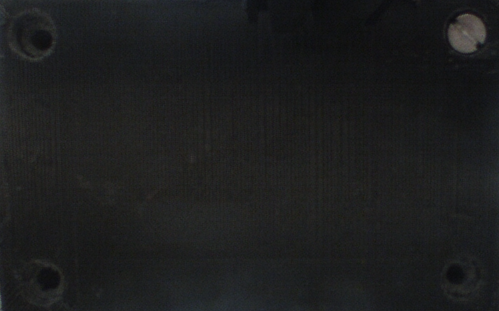
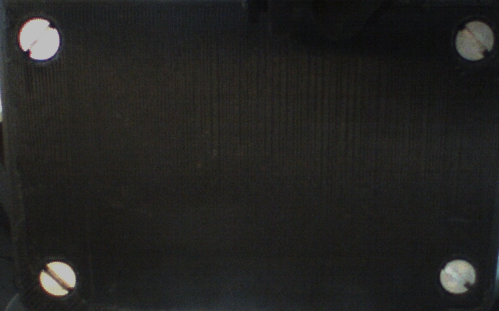
Screw detection + Baxter screen output

diff --git a/src/inspection_task/src/baxter_screws_prediction.py b/src/inspection_task/src/baxter_screws_prediction.py
@@ -6,12 +6,13 @@ import cv2
 import numpy as np
 import os
 from std_msgs.msg import Bool
-from geometry_msgs.msg import Point
+# from geometry_msgs.msg import Point
 from sensor_msgs.msg import Image
 from cv_bridge import CvBridge, CvBridgeError
-from sklearn.externals import joblib
-from scipy.cluster.vq import vq, kmeans, whiten
-from object_recognition.msg import ObjectInfo
+import baxter_interface
+# from sklearn.externals import joblib
+# from scipy.cluster.vq import vq, kmeans, whiten
+# from object_recognition.msg import ObjectInfo
 
 class webcam_image:
     def __init__(self):
@@ -37,6 +38,8 @@ class webcam_image:
         if not os.path.exists(self.directory):
             os.mkdir(self.directory)
 
+        self.analysis = False
+
 
     def check_moving(self,data):
         self.is_moving = data.data
@@ -54,16 +57,20 @@ class webcam_image:
             crop_img = frame[57:368, 85:584] # Use numpy slicing to crop the input image (no more background issues)
             cv2.imshow('crop img (video)',crop_img) 
 
+            
             if cv2.waitKey(1) & 0xFF == ord('c'):
+            # if self.analysis == False:
                 image_path = self.directory + '/' + str("capture_inspection") + '.png'
+                rospy.sleep(1)
                 cv2.imwrite(image_path, crop_img)
                 print "Capturing image",image_path
 
 
                 self.screwDetection(crop_img)
-                
 
+                self.analysis = True
 
+                # Publish baxter message and quit (or running again if missing screws)
 
             # self.screwDetection(crop_img)
             
@@ -72,39 +79,22 @@ class webcam_image:
             # self.screwDetection(frame)
             cv2.waitKey(3)
 
-            # Split frame into left and right halves
-            # left_frame = frame[0:frame.shape[0], 0:frame.shape[1]/3]
-            # middle_frame = frame[0:frame.shape[0], frame.shape[1]/3:2*frame.shape[1]/3]
-            # right_frame = frame[0:frame.shape[0], 2*frame.shape[1]/3:frame.shape[1]]
-
-            # Create list of left and right images
-            # frames = [left_frame, middle_frame, right_frame]
 
     def screwDetection(self, frame):
 
-            # for i,f in enumerate(frames):
-            kps, des = sift.detectAndCompute(frame, None)
-            # frames[i] = cv2.drawKeypoints(f, kps, None, flags=cv2.DRAW_MATCHES_FLAGS_DRAW_RICH_KEYPOINTS) # draw SIFT points
-            cv2.drawKeypoints(frame, kps, None, flags=cv2.DRAW_MATCHES_FLAGS_DRAW_RICH_KEYPOINTS) # draw SIFT points
-            
-
-            # Convert current index to one_hot list representation for color assignment later
-            # one_hot = [0,0,0]
-            # one_hot[i] = 1
-
-            # Basic threshold example
+            # Convert into Gray frame
             gray = cv2.cvtColor(frame, cv2.COLOR_RGBA2GRAY)
 
             # mask = cv2.inRange(gray, 106, 255)
 
-            # CHANGE THESE VALUES TO CALIBRATE BOUNDING BOXES
-            th, dst = cv2.threshold(gray, 60, 255, cv2.THRESH_BINARY)
+            # Thresholding image
+            # th, dst = cv2.threshold(gray, 60, 255, cv2.THRESH_BINARY)
             # dst = cv2.adaptiveThreshold(gray, 255, cv2.ADAPTIVE_THRESH_MEAN_C, cv2.THRESH_BINARY_INV, 19, 12)
 
             # new_img = cv2.bitwise_not(dst, mask)
-            cv2.imshow('frame',frame)
+            # cv2.imshow('frame',frame)
             # cv2.imshow('mask',mask)
-            cv2.imshow('res',dst)
+            # cv2.imshow('res',dst)
 
             # crop_img_gray = dst[57:368, 85:584] # Use numpy slicing to crop the input image (no more background issues)
             # crop_img = frame[57:368, 85:584] # Use numpy slicing to crop the input image (no more background issues)
@@ -112,15 +102,17 @@ class webcam_image:
             # cv2.imshow('crop img',crop_img_gray) 
 
             # Find contours on binary image (cropped)
-            img_contours, contours, hierarchy = cv2.findContours(dst,cv2.RETR_TREE,cv2.CHAIN_APPROX_SIMPLE)
+            # img_contours, contours, hierarchy = cv2.findContours(dst,cv2.RETR_TREE,cv2.CHAIN_APPROX_SIMPLE)
+            # cv2.imshow('img contours',img_contours)
 
-            contour_area=0
-            areamax=0
-            cxmax=0
-            cymax=0  
-            cntmax= None
+
 
             # Test Contour detection (output OK, but not counting properly...)
+            # contour_area=0
+            # areamax=0
+            # cxmax=0
+            # cymax=0  
+            # cntmax= None
             # if len(contours) > 0:
             #     i = 0
             #     while contours:
@@ -155,9 +147,11 @@ class webcam_image:
             # detectionGray = cv2.cvtColor(frame, cv2.COLOR_RGBA2GRAY)
             # cv2.imshow('detectionGray (count detected screws)', gray)
 
+
             # Test Hough Circles Detection (this is working, check robustness)
             gray = cv2.medianBlur(gray, 5)
-            cv2.imshow('gray after blur', gray)
+            # Output debug
+            # cv2.imshow('gray after blur', gray)
             nbScrews = cv2.HoughCircles(gray,cv2.HOUGH_GRADIENT,1,20,param1=100,param2=15,minRadius=18,maxRadius=23)
             if nbScrews is not None:
                 nbScrews = np.uint16(np.around(nbScrews))
@@ -167,14 +161,36 @@ class webcam_image:
                     # draw the center of the circle
                     cv2.circle(frame,(i[0],i[1]),2,(0,0,255),3)
                 print "echo (nbscrews): ", nbScrews
-                print "Nb screws: ", nbScrews.shape[1]
+                intNbScrews = nbScrews.shape[1]
+                print "Nb screws: ", intNbScrews
                 # cv2.circle(gray,(nbScrews[0],nbScrews[1]),nbScrews[2],(0,255,0),12) # Draw plain circle
+
+                # Add text
+                cv2.putText(frame,str(intNbScrews) + "/4 screws",(60,170), cv2.FONT_HERSHEY_DUPLEX, 2,(255,255,255),2,cv2.LINE_AA)
+                
+                # Show output
                 cv2.imshow('detectionHough (count detected screws)', frame)
+                
+                # Save detection image
+                image_path = self.directory + '/' + str("detection") + '.png'
+                rospy.sleep(1)
+                cv2.imwrite(image_path, frame)
+                print "Capturing detection image: ",image_path
+
+                # Resizing image for Baxter's screen
+                
+                
+
+                # Publish image on Baxter's head
+                img_detection = cv2.imread('/home/thib/simulation_ws/src/inspection_task/src/detection.png')
+                new_img = cv2.resize(img_detection, (1024, 600))
+                msg_detection = CvBridge().cv2_to_imgmsg(new_img, encoding="bgr8")
+                image_pub.publish(msg_detection)
+
+
             else:
                 print "No screw detected!"
-                        
-
-            
+                                    
             cv2.waitKey(1)
 
 
@@ -183,25 +199,26 @@ def main(args):
     rospy.init_node('webcam_image', anonymous=True)
     ic = webcam_image()
 
-    
-
     try:
         rospy.spin()
     except KeyboardInterrupt:
         print("Shutting down")
     cv2.destroyAllWindows()
 
+
 if __name__ == '__main__':
     print "OpenCV Version:",cv2.__version__
 
     # Load the classifier, class names, scaler, number of clusters and vocabulary
-    classifier, class_names, std_slr, k, vocabulary = joblib.load("/home/thib/simulation_ws/src/assembly_task/src/dataset_RPLv2.pkl")
+    # classifier, class_names, std_slr, k, vocabulary = joblib.load("/home/thib/simulation_ws/src/assembly_task/src/dataset_RPLv2.pkl")
 
     # Create SIFT object
-    sift = cv2.xfeatures2d.SIFT_create()
+    # sift = cv2.xfeatures2d.SIFT_create()
 
-    predictions = [['','','','',''],['','','','',''],['','','','','']]
+    # predictions = [['','','','',''],['','','','',''],['','','','','']]
     counter = 0
     needResizing = False
+
+    image_pub = rospy.Publisher('/robot/xdisplay', Image, latch=True, queue_size=10)
 
     main(sys.argv)

diff --git a/src/inspection_task/src/inspection.py b/src/inspection_task/src/inspection.py
@@ -27,8 +27,11 @@ desired_object = None
 # screwingOK = False
 # inspectionOK = False
 
-img_box = cv2.imread('/home/thib/simulation_ws/src/assembly_task/msg/pickup_box.png')
-msg_box = CvBridge().cv2_to_imgmsg(img_box, encoding="bgr8")
+img_gettingReady = cv2.imread('/home/thib/simulation_ws/src/inspection_task/msg/ready_inspection.png')
+msg_gettingReady = CvBridge().cv2_to_imgmsg(img_gettingReady, encoding="bgr8")
+
+img_inspectionRunning = cv2.imread('/home/thib/simulation_ws/src/inspection_task/msg/inspection_running.png')
+msg_inspectionRunning = CvBridge().cv2_to_imgmsg(img_inspectionRunning, encoding="bgr8")
 
 dinspectionCamera = [0.666, -0.023, 0.188, 0.790, 0.464, -0.351, 0.191]
 
@@ -46,11 +49,6 @@ def getCameraState(data):
     global camera_state_info
     camera_state_info = data
 
-
-def getDesiredObject(data):
-    global desired_object
-    desired_object = data.data
-
 # THIS WORKS
 
 # Callback OK wheel button left navigator (WORKING)
@@ -62,17 +60,28 @@ def navigatorCallback(data):
 # Action when object picked up
 def inspection():
 
+    gc = GripperClient()
+
     # BAXTER SCREEN OUTPUT
     # image_pub.publish(msg_confirm)
     
     rospy.logwarn_throttle(1,"Getting ready for inspection!")
+
+    # Display action on Baxter's screen
+    image_pub.publish(msg_gettingReady)
 
     # Wait
     rospy.sleep(1)
 
     pnode.initplannode(dinspectionCamera, "left")
 
+    gc.command(position=0.0, effort=0.0) # Close gripper
+    gc.wait()
+
     rospy.logwarn_throttle(1,"Inspection in progress...")
+    
+    # Display action on Baxter's screen
+    image_pub.publish(msg_inspectionRunning)
 
     # CHANGE THIS
     while navigatorOK_state != True:    

diff --git a/src/assembly_task/src/pickup_object.py b/src/assembly_task/src/pickup_object.py
@@ -168,7 +168,7 @@ def pickup():
 
     pnode.initplannode(dsafe_rotated, "right")
 
-    gc.command(position=100.0, effort=50.0)
+    gc.command(position=100.0, effort=50.0) # Open gripper
     gc.wait()
 
     # EDIT HERE FOR PICKING STUFF
